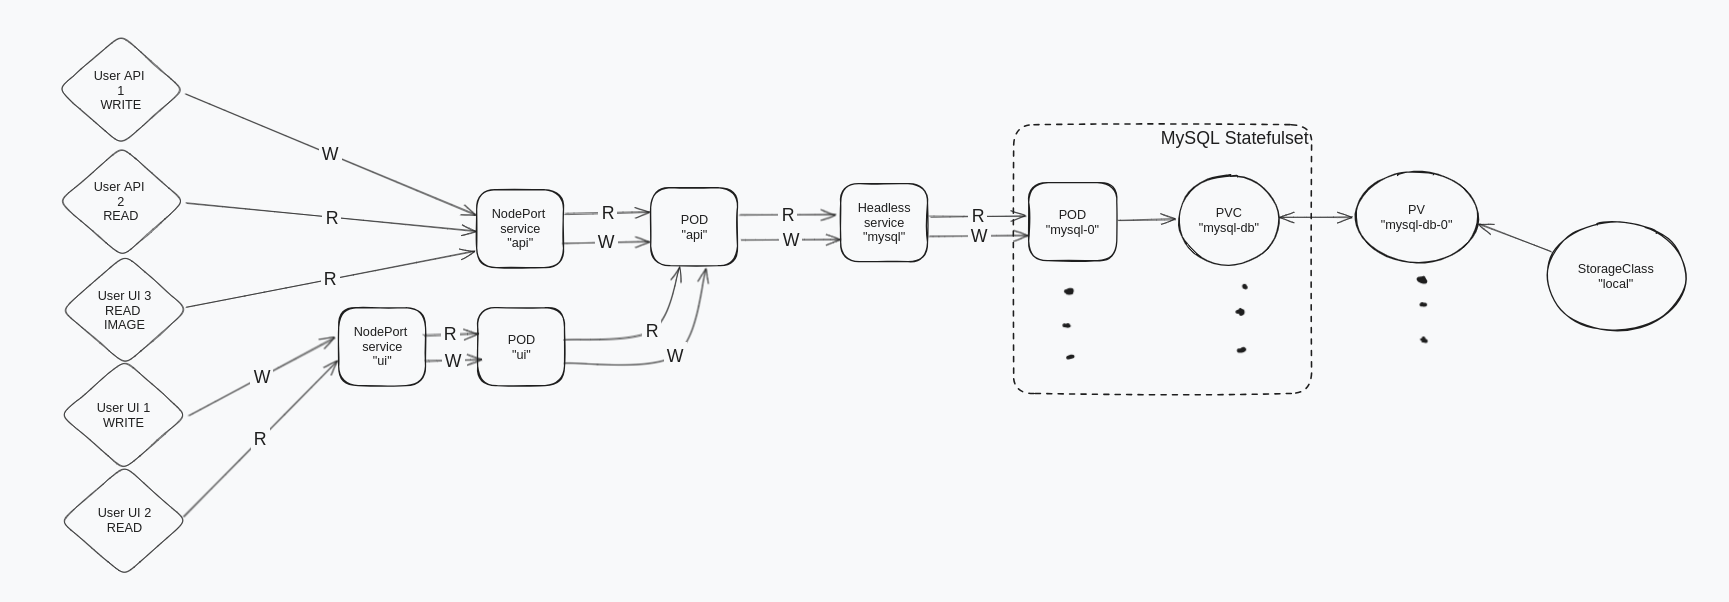
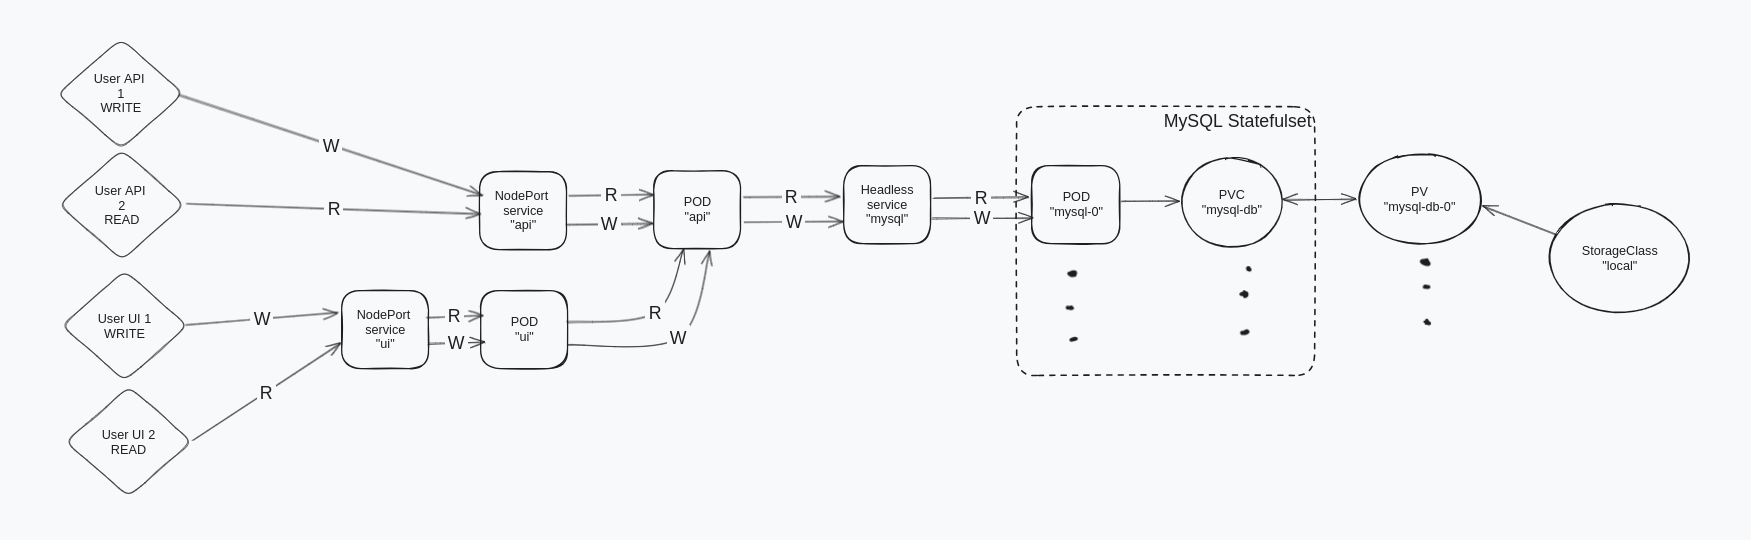
fix(docs): Deployment ui error access to images

diff --git a/k8s/temp_docs_k8s_fixed.md b/k8s/temp_docs_k8s_fixed.md
@@ -504,8 +504,6 @@ spec:
             value: 'http://api:8000'
           - name: PORT
             value: '80'
-          - name: IMAGE_URL
-            value: 'http://<worker-node-ip>:31000'
 
 ```
 
@@ -523,9 +521,7 @@ kubectl delete -f <nombre-manifiesto-ui>.yaml
 
 Nuevamente se utilizó Docker para crear la imágen y subirla al DockerHub para que sea accesible por Kubernetes a través de `aagustinconti/ui-node-products:latest`.
 
-Por otro lado debemos observar algo clave, entre los valores de las variables de entorno que le suministramos, encontramos que encuentra perfectamente a la api mediante el servicio "api" en el puerto 8000 (utilizando la resolución de DNS), mientras que el otro parámetro es "IMAGE_URL" nos debería llamar la atención, ya que debemos configurar a mano la IP del nodo, lo que no es del todo conveniente porque al no usar resolución por DNS, si se cae el nodo puede aparecer con otra IP y no será más accesible.
-
-Lo anterior se da debido a un inconveniente de programación de la UI, donde esta se divide en dos partes, Server y Client, el cliente está en la máquina del usuario que accede a la página web mientras que el Server es el pod que procesa todas las peticiones. En este caso, las imágenes deberían ser peticionadas al pod de UI desde ahí, el pod debería pedirle a la API las imágenes ya que el POD de la UI sí vé a la API internamente, pero sucede que no fue posible esa configuración, por lo que el cliente accedería a las imágenes de la API mediante el uso de la IP del servicio NodePort. Entendemos que no es conveniente, pero hasta la resolución de este inconveniente mantendremos en funcionamiento de esta manera.
+Por otro lado debemos observar algo clave, entre los valores de las variables de entorno que le suministramos, encontramos que encuentra perfectamente a la api mediante el servicio "api" en el puerto 8000 (utilizando la resolución de DNS).
 
 El diagrama queda como sigue:
 
